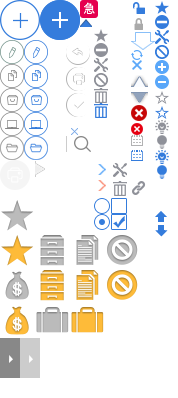
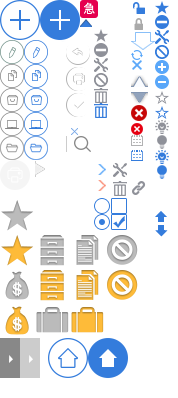
css

diff --git a/css/appstyle.css b/css/appstyle.css
@@ -1,26 +1,30 @@
 /*header footer*/
-.header{width:100%;height:75px;border-bottom: 2px solid #59a7f9;position:fixed;left:0;top:0;z-index: 30;background-color: #fff;}
-.headerInner{width:1020px;margin:0 auto;padding-top:20px;height:55px;}
+.header{width:100%;height:70px;border-bottom: 2px solid #347cdc;position:fixed;left:0;top:0;z-index: 30;background-color: #fff;}
+.headerInner{width:1020px;margin:0 auto;padding-top:15px;height:55px;}
 .headerInner span.inlineblock{line-height:25px;}
 .headerRight{*margin-top:-43px;*width:21%;padding-right:15px;}
-.company_logo{width:auto;height:42px;background: url("../img/logobg.jpg");vertical-align: middle;overflow: hidden;}
-.company_logo img{max-height: 84px;}
-.company_name,.back_md{position: relative;bottom:-8px;}
+.company_logo{width:auto;height:45px;vertical-align: middle;overflow: hidden;}
+.company_logo img{height:45px;}
+.company_name,.back_md{position: relative;}
+.back_md{font-size:22px;color:#333;float: right;height:40px;line-height:40px;}
 .footer{width: 100%;height: 60px;border-top:1px solid #ddd;text-align: center;position: fixed;bottom:0;left:0;background: #f5f5f5;}
 .footer p{color:#aaa;padding-top:10px;}
 .footer p a{color:#347cdc;padding-right:20px;}
-.content{position:absolute;left:0;right:0;top:77px;bottom:0;width:100%;overflow:auto;overflow-x: hidden;}
+.content{position:absolute;left:0;right:0;top:72px;bottom:0;width:100%;overflow:auto;overflow-x: hidden;}
 .main{width:1000px;margin:0 auto;min-height:100%;position: relative;}
 .UserImg,.UserImg img{width:40px;height:40px;border-radius:50em;cursor: pointer;}
 .item_box .UserImg,.item_box .UserImg img{width:30px;height:30px;}
-.DropDown{position: relative;z-index: 20;width:140px;border-right: 1px solid #ccc;}
+.DropDown{position: relative;z-index: 20;width:130px;border-right: 1px solid #ccc;border-left: 1px solid #ccc;padding-left:20px;margin-left:20px;}
 .DropDown p{line-height:20px;}
-.DropDown .DropList{position: absolute;width: 108px;z-index: 20;top:50px;left:-55px;display: none;}
+.DropDown .DropList{position: absolute;width:90px;z-index: 20;top:50px;left:-25px;display: none;}
 .DropDown .DropList .ico-arrow{position: absolute;right:24px;top:-7px;}
-.DropDown .DropList ul{border:1px solid #33619f;border-bottom: 0;}
-.DropDown .DropList li a{display:block;height:38px;line-height: 38px;border-bottom:1px solid #33619f;color:#fff;padding-left:14px;font-size:14px;}
-.DropDown .DropList li a:hover{background-color: #2462b4;}
+.DropDown .DropList ul{border:1px solid #00479d;background:#fff;padding:5px 0;border-radius:3px;}
+.DropDown .DropList li{margin:5px 0;}
+.DropDown .DropList li a{display:block;height:30px;line-height:30px;color:#666;padding-left:14px;font-size:14px;}
+.DropDown .DropList li a:hover{background-color: #edf5fe;}
 .DropDown.current .ico-plus{background-position:-40px 0;}
+.DropDown.current .ico-home{background-position:-88px -338px;}
+.DropDown.noborder{margin:0;padding:0 20px 0 0;}
 /*左侧菜单*/
 .LeftBar{width:180px;}
 .LeftBar ul li{margin-bottom:10px;}
@@ -59,6 +63,11 @@
 .search.current .ser_Results{display: block;}
 .select{width:110px;}
 .select .ser_Results{width:95%;}
+.Column .search{width:70px;margin: 0 auto;margin-bottom:-2px;}
+.Column .search,.Column .search .Choosed,.Column .search .ico-select{height:20px;line-height:20px;}
+.Column .search .ico-select{height:18px;top:1px;}
+.Column .search,.Column .search .Choosed,.Column .search .ico-select{height:20px;line-height:20px;}
+.Column .search .ico-select .ico-upd{vertical-align:0;}
 .totop{margin-top:-40px;}
 .item_box .ser_Results  ul{margin:0;}
 .item_box .ser_Results  ul li{margin:0;}
@@ -296,7 +305,7 @@
 .form_tab td .td_inner .Column td textarea{margin-left:19px;}
 .form_tab_last{border:1px dashed #ccc;}
 .form_tab td .td_inner{width:100%;min-height:46px;line-height:45px;position: relative;color:#888;}
-.form_tab td .td_inner span.font12,.form_tab td .td_inner p.font12{min-width:40px;display:inline-block;padding:0 10px 0 10px;color:#333}
+.form_tab td .td_inner span.font12,.form_tab td .td_inner p.font12{min-width:60px;display:inline-block;padding:0 10px 0 10px;color:#333}
 .form_tab td .td_inner .options{padding-left:50px;}
 .form_tab td .td_inner .options p{line-height:30px;}
 .form_tab td .td_inner .options label{height:18px;line-height:18px;}

diff --git a/template/app-list.html b/template/app-list.html
@@ -12,9 +12,8 @@
 <!--header begin-->
 <div class="header">
     <div class="headerInner clearfix">
-        <span class="inlineblock company_logo"></span>
-        <span class="inlineblock company_name font16 marl10 color-3">梅花与明道</span>
-        <a href="#" class="back_md marl20 color-8">返回明道</a>
+        <span class="inlineblock company_logo"><img src="https://img.mingdao.com/ProjectLogo/default.gif"/></span>
+        <span class="inlineblock company_name font16 marl20 color-3">梅花与明道</span>
         <!--右侧头像和发起按钮 begin-->
         <div class="headerRight floatright clearfix">
             <!--头像 begin-->
@@ -38,16 +37,29 @@
                 <span class="UserImg block"><i class="Icon ico-plus"></i></span>
                 <div class="DropList">
                     <i class="Icon ico-arrow"></i>
-                    <ul class="border-33619f bg-347cdc">
-                        <li><a href="#"><i class="Icon ico-launch"></i>发起申请</a></li>
-                        <li><a href="#"><i class="Icon ico-creatF"></i>创建表单</a></li>
-                        <li><a href="#"><i class="Icon ico-creatU"></i>新建角色</a></li>
+                    <ul>
+                        <li><a href="#">发起申请</a></li>
+                        <li><a href="#">创建表单</a></li>
+                        <li><a href="#">新建角色</a></li>
                     </ul>
                 </div>
             </div>
             <!--plus btn over-->
+            <!--切换网络 begin-->
+            <div class="DropDown clearfix noborder floatright" style="width:auto;">
+                <span class="UserImg block"><i class="Icon ico-home"></i></span>
+                <div class="DropList">
+                    <i class="Icon ico-arrow"></i>
+                    <ul>
+                        <li><a href="#">切换网络</a></li>
+                        <li><a href="#">安全退出</a></li>
+                    </ul>
+                </div>
+            </div>
+            <!--切换网络 over-->
         </div>
         <!--右侧头像和发起按钮 over-->
+        <span class="back_md marl20 color-8">快捷审批</span>
     </div>
 </div>
 <!--header over-->

diff --git a/template/form-creat.html b/template/form-creat.html
@@ -232,7 +232,12 @@
                                                 <div class="mask_in"></div>
                                                 <input class="int" type="text">
                                             </td>
-                                            <td><input class="int" type="text"></td>
+                                            <td>
+                                                <div class="search ie-css3 select"><!--加 current，显示下拉列表框-->
+                                                    <span class="Choosed">省份</span>
+                                                    <span class="ico-select"><i class="Icon ico-upd"></i></span>
+                                                </div>
+                                            </td>
                                             <td><input class="int" type="text"></td>
                                             <td><input class="int" type="text"></td>
                                             <th class="width-40"><i class="Icon ico-p-add"></i></th>

diff --git a/css/global.css b/css/global.css
@@ -157,7 +157,8 @@ a:hover,.news-list li a:hover{text-decoration:none;}
 .ico-launch{background-position:-48px -88px;}
 .ico-creatF{background-position:-48px -112px;}
 .ico-creatU{background-position:-48px -136px;}
-.ico-plus{width:40px;height:40px;background-position:0 0;}
+.ico-plus,.ico-home{width:40px;height:40px;background-position:0 0;}
+.ico-home{background-position:-48px -338px;}
 .ico-01,.ico-02,.ico-03,.ico-04,.ico-05{width:24px;height:24px;background-position:0 -40px;vertical-align: -7px;margin:0 10px 0 20px;}
 .ico-02{background-position:0 -64px;}
 .ico-03{background-position:0 -88px;}
